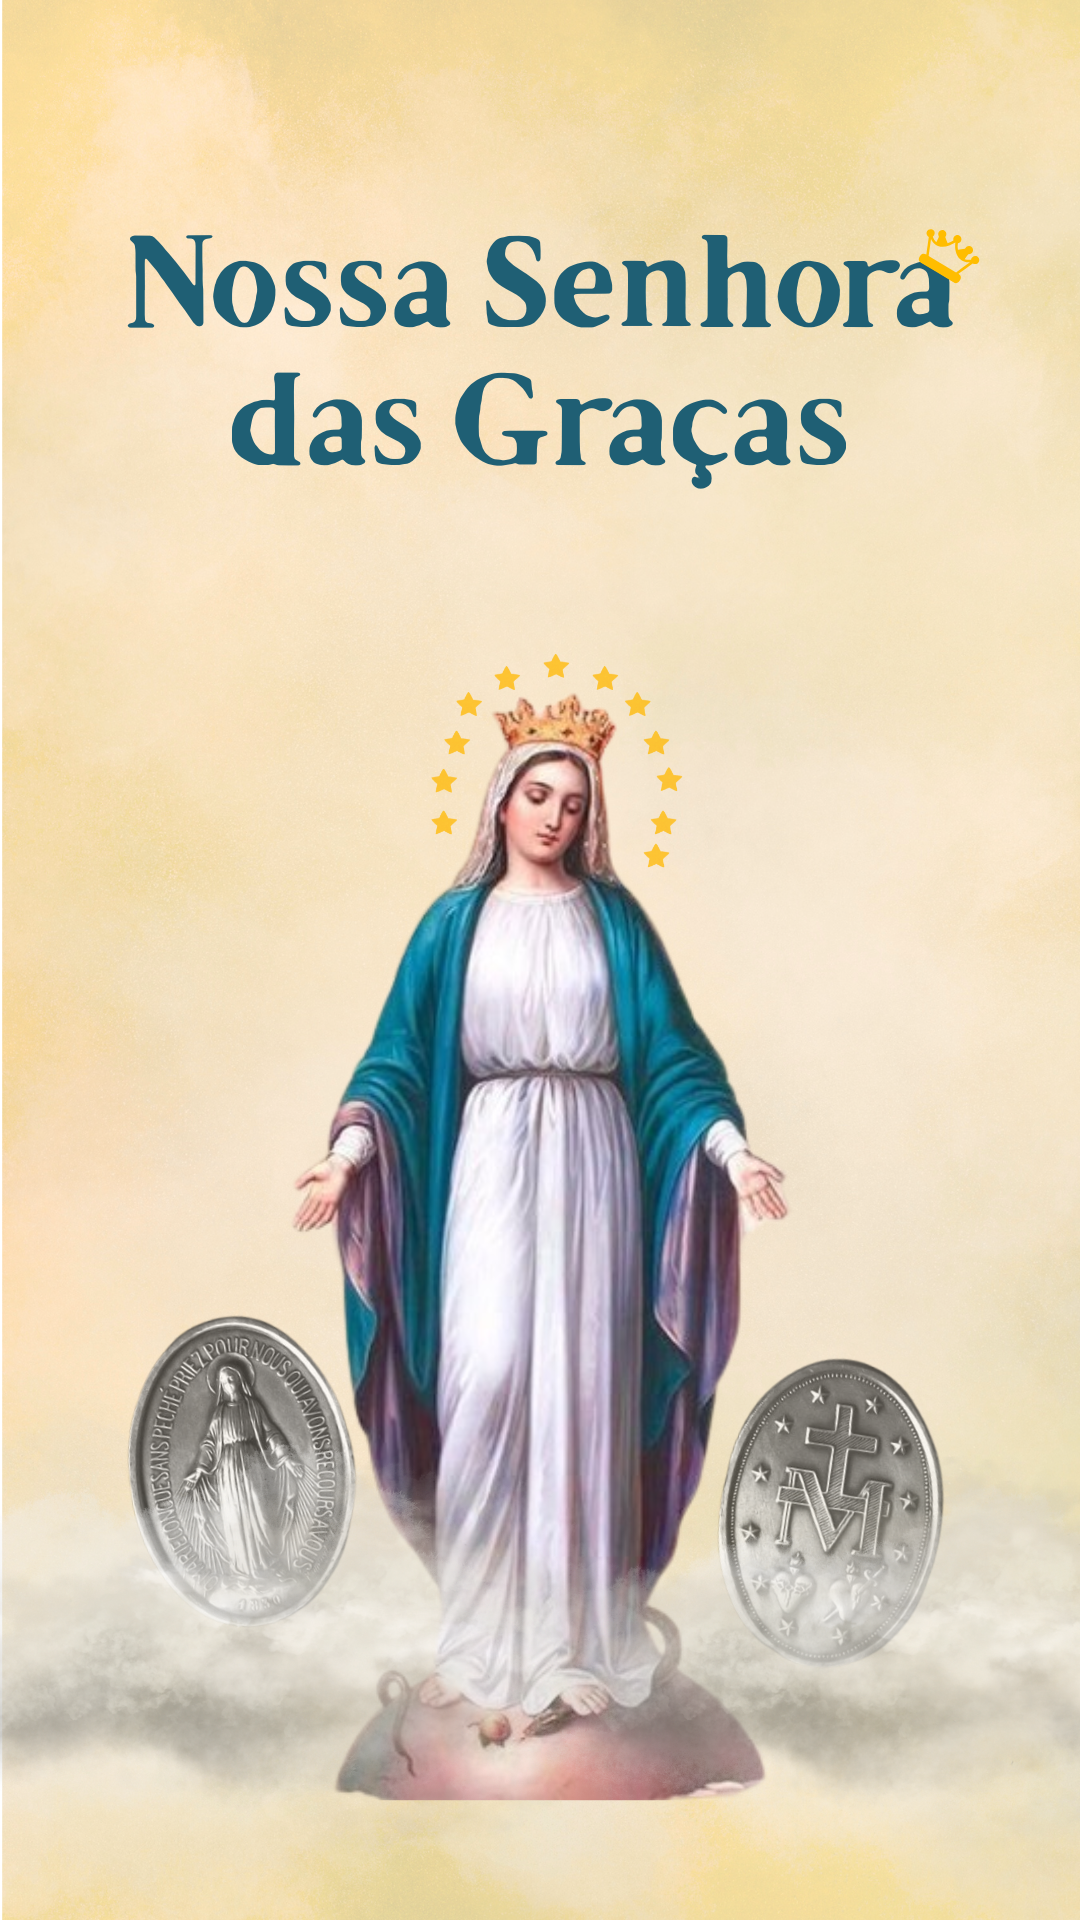
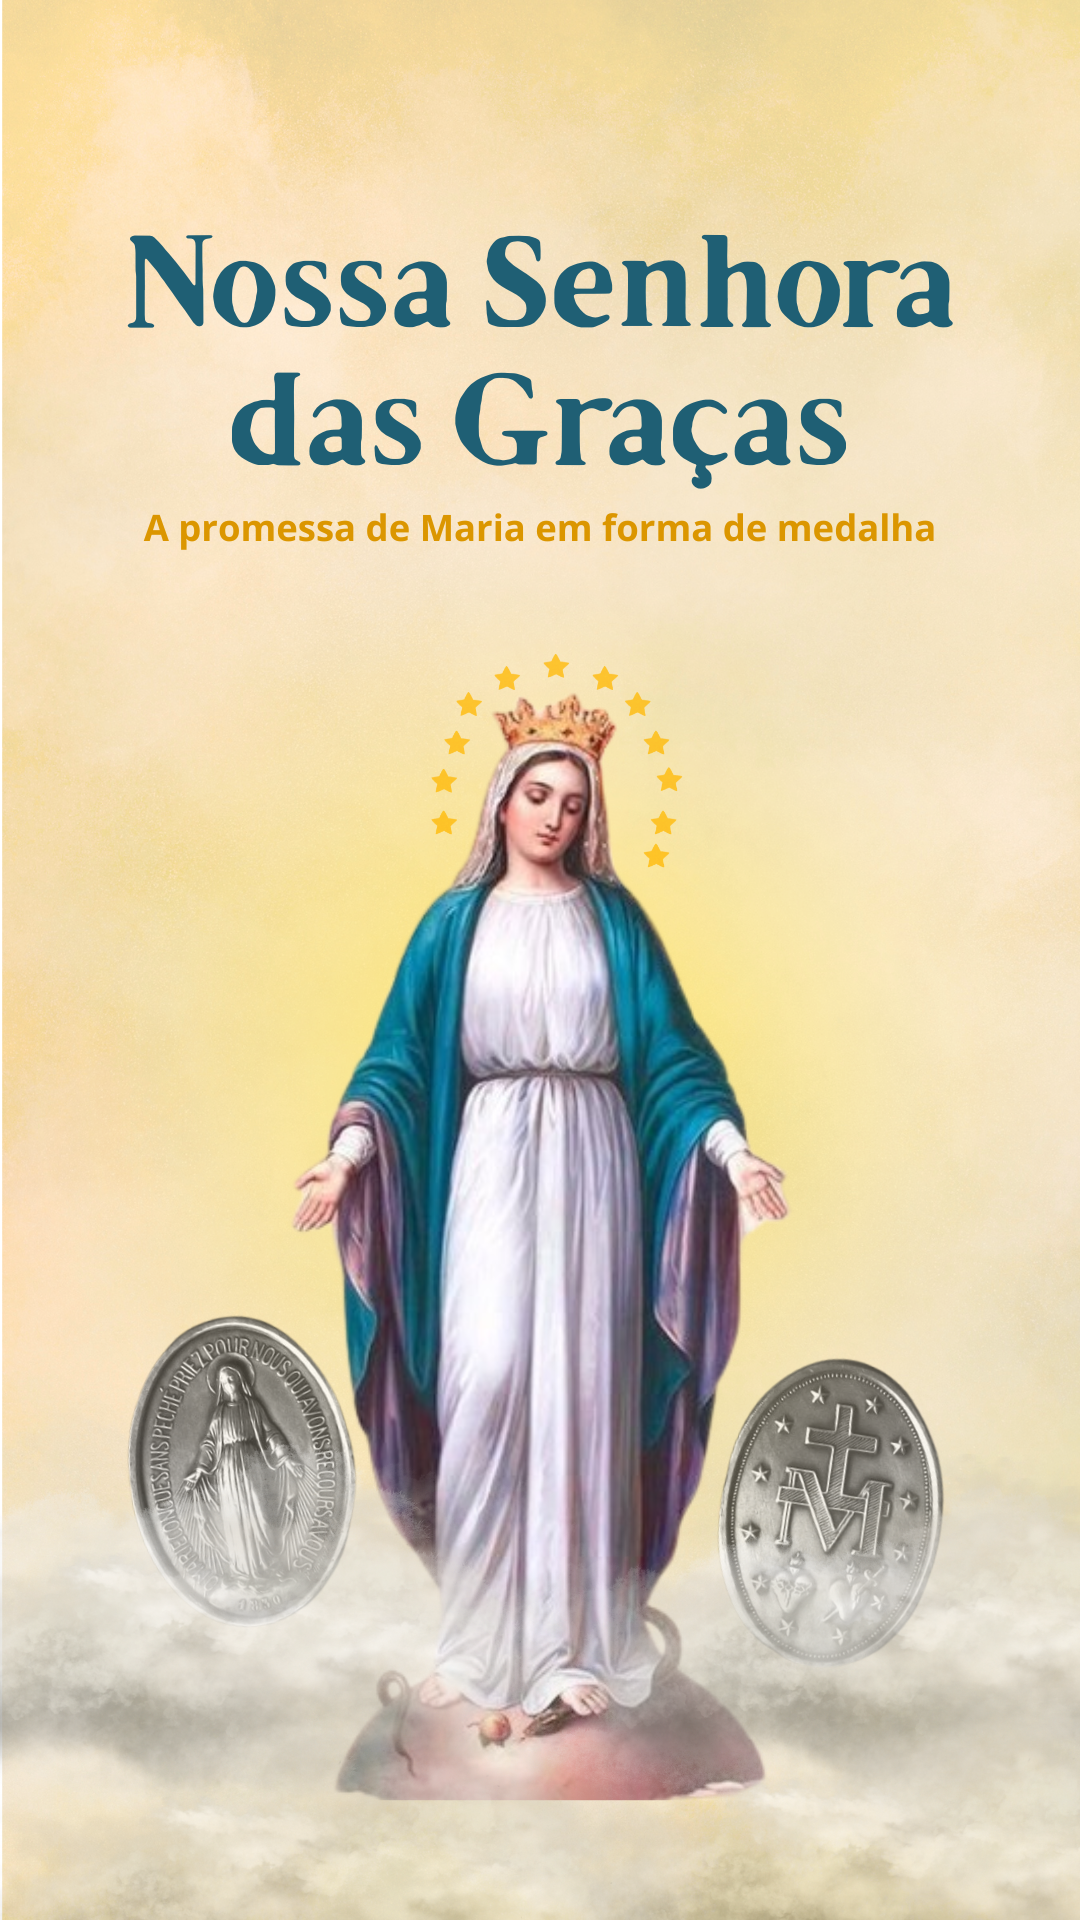
Imagem trocada e add root de cores

diff --git a/styles/style.css b/styles/style.css
@@ -1,3 +1,31 @@
+:root {
+  --cor1: #1f5f74; /*Cor Titulo*/
+  --cor2: #374151; /*Cor Textos*/
+
+  /* Roupas de Nossa Senhora das Graças */
+  --tunica-branca: #ffffff;
+  --manto-azul-celeste: #87ceeb;
+  --manto-azul-claro: #add8e6;
+  --cinto-azul: #4682b4;
+
+  /* Véu */
+  --veu-branco: #f8f8ff;
+
+  /* Elementos dourados */
+  --dourado: #ffd700;
+
+  /* Raios de luz */
+  --raio-luz-claro: #fffacd;
+  --raio-luz-luminoso: #ffffe0;
+
+  /* Serpente (representação do mal) */
+  --serpente-preta: #2f4f4f;
+
+  /* Globo terrestre */
+  --globo-verde: #228b22;
+  --globo-azul-oceano: #1e90ff;
+}
+
 * {
     margin: 0;
     padding: 0;
